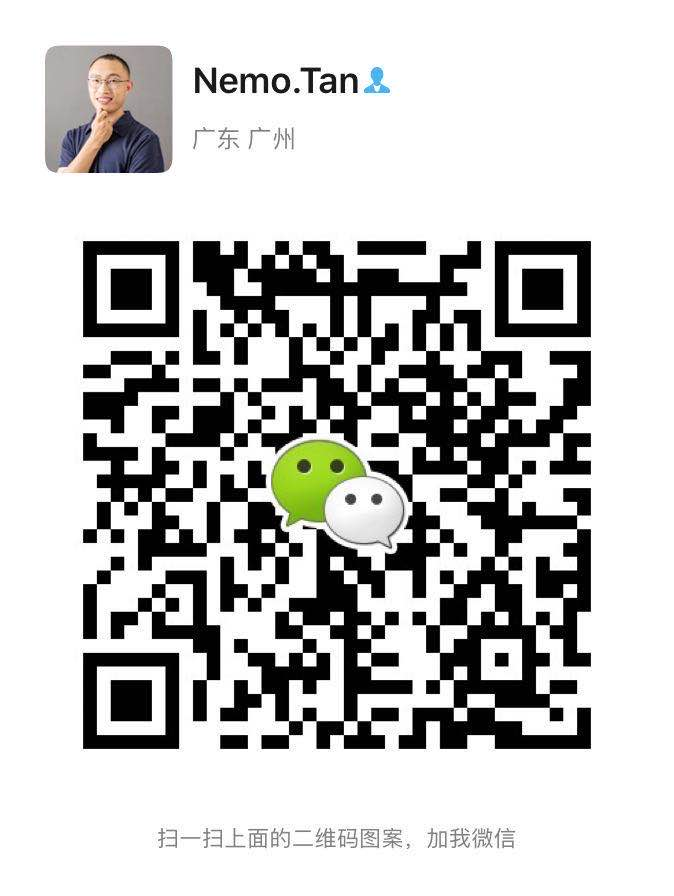
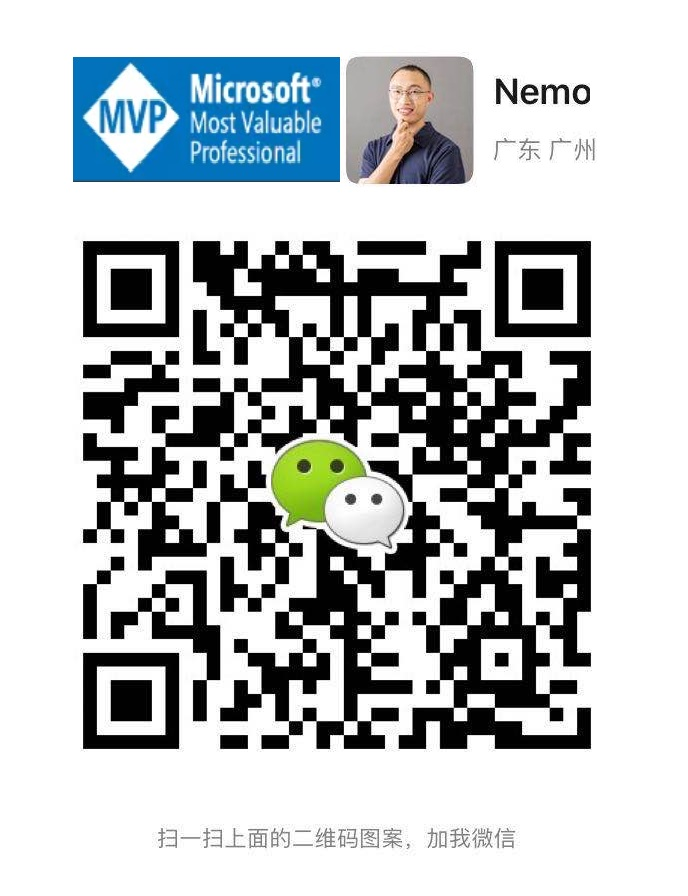
rxv80

diff --git a/_posts/2021-7-29-Teams-CollaBar-rxv80.md b/_posts/2021-7-29-Teams-CollaBar-rxv80.md
@@ -12,36 +12,93 @@ tags:
 - AudioCodes
 ---
 
->  ]()
+本文将再介绍一下Microsoft Teams硬件生态圈里面的一个会议室场景：小型会议室 或 电话间 ，当大家在使用微软Teams作为公司的办公协作平台的时候，就会遇到这样一个情况：“*公司有足够的预算来为大型会议室与培训室配备昂贵的会议设备*” ，但是对于小会议室/电话间 来说却没有必要投入这么高的成本来装备这些会议室，但同时小会议室又是企业里面使用频率最高，协作效率最高的办公场所之一。
 
-> 的我的mvp介绍
+如何为这些类型的会议室也能应用上Teams Meeting的能力？就是说用户无论在大中型会议室中可以使用Teams MTR会议终端开启Teams会议，同时在小型会议室中也能方便地开启Teams Meeting呢？微软的Teams硬件生态里面有一种会议设备叫做Collaboration bar（协作栏：一种集扬声器，麦克风，摄像头于一体的Teams会议终端）正可以以较低成本的方式，简单快捷地部署在这些小地方上面。
 
-本文将再介绍一下Microsoft Teams硬件生态圈里面的一个会议室场景：小型会议室 或 电话间 ，当大家在使用微软Teams作为公司的办公协作平台的时候，就会遇到这样一个情况：“*公司有足够的预算来为大型会议室与培训室配备昂贵的会议设备*” ，但是对于小会议室/电话间 来说却没有必要投入这么高的成本来装备这些会议室，同时小会议室又是企业里面使用频率最高，协作效率最高的办公场所之一。
+# 一致的Teams会议体验 
 
-如何为这些
+之前一篇文章介绍过Poly x50的Collaboration bar，本文测试的是奥科公司的一款Collaboration bar，型号为RXV80；相对于Poly x50来说RXV80只集成是麦克风与摄像头，扬声器的能力是沿用显示器的喇叭。
 
-# 一致的Teams会议体验 | Intuitive meeting experiences
+它与其它Teams MTR会议终端一样，因为操作界面完全一样可以减少用户的学习成本，这一点非常重要，微软对于所有的认证会议设备来说，一致的会议体验非常重要。
 
-在很久很久之前有介绍
+以下就是RXV80，一个小小的会议终端，它配置的遥控器完成满足了所有的操作需求。当然可以外接一个无线键鼠来提高操作度。
 
-# 连接触控大屏来提高Teams会议的交互体验 | Optimized for touch
+![image-20210729132654144](https://cdn.jsdelivr.net/gh/kristofftan/kristofftan.github.io/img/image-20210729132654144.png)
+
+我拿了微软关于协作栏的一个GIF作演示，其实所有的协作栏界面都是一样，通过在Teams或Outlook里面预约好Teams会议室后，日程会推送到设备上面，快到会议开始时就可以点击遥控上面的Teams button一键入会，使用体验跟所有的MTR完全是一致的。
+
+![thumbnail image 1 of blog post titled  	 	 	  	 	 	 				 		 			 				 						 							The first collaboration bar for Microsoft Teams is now available! 							 						 					 			 		 	 			 	 	 	 	 	 ](https://techcommunity.microsoft.com/t5/image/serverpage/image-id/178016i7C25DF13FC72BD3C/image-size/large?v=v2&px=999)
+
+如果你的企业已经配置了Teams Phone System的话，还可以直接把外部的PSTN用户邀请到会议室里面来，如下图：
+
+![image-20210823111548201](https://cdn.jsdelivr.net/gh/kristofftan/kristofftan.github.io/img/image-20210823111548201.png)
+
+# 连接触控大屏来提高Teams会议的交互体验
+
+一般的小会议室，只需要把Teams协作栏RXV80的网络，HDMI高清显示，电源连接上后即使用Teams Meeting Room，但显然它还可以匹配更多的会议场景，如下图：
+
+- （标记1）可以配置一个扩展麦克风，从而提高会议室的收音能力。
+- （标记4）用户的笔记本电脑可以通过连接设备后面的HDMI IN接口，直接把电脑桌面共享到Teams Meeting当中。熟悉Teams MTR的朋友一定会知道这个非常好用的功能。
+- （标记5）现在的会议室里面，如果没有一块可以触控的大屏的话，应该是非常不方便的，那么RXV80的后置USB接口连接到触控大屏的触控USB之后，我们就可以启用Teams的白板功能与远端用户互动了。
+
+> PS. 吐槽点之一是Teams Meeting是沿用Microsoft Whiteboard作为它的白板共享，相对于国内用户来说连接速度非常的慢，相对于其它大厂的白板共享来说，功能迭代又是相对地慢。
+
+![image-20210729135020728](https://cdn.jsdelivr.net/gh/kristofftan/kristofftan.github.io/img/image-20210729135020728.png)
+
+但无论如何集音视频于一体的会议终端（bar形态）一定是未来会议室场景的重要形态之一。
+
+购买回来后，接电源，接网络，接显示，即可立即使用，并立即通过Teams admin portal进行设备管理。
+
+重点是无任何许可费用产生哦。
+
+![image-20210729135144226](https://cdn.jsdelivr.net/gh/kristofftan/kristofftan.github.io/img/image-20210729135144226.png)
+
+![image-20210822191336646](https://cdn.jsdelivr.net/gh/kristofftan/kristofftan.github.io/img/image-20210822191336646.png)
 
 # 轻量的部署与管理 | Simple to deploy and manage
 
+接着，我们来详细看看Teams admin portal对于会议终端能管理到一个什么程度？
 
+如下图，进入Teams admin portal > 设备 > 协作栏，一旦设备登陆上Teams就可以直接在后台显示出来，并接受Teams admin的管理
 
-![image-20210729132654144](C:\Users\Nemo\Documents\GitHub\tangx007\img\image-20210729132654144.png)
+![image-20210822192704752](https://cdn.jsdelivr.net/gh/kristofftan/kristofftan.github.io/img/image-20210822192704752.png)
 
-![image-20210729135144226](C:\Users\Nemo\Documents\GitHub\tangx007\img\image-20210729135144226.png)
+可以对设备进行基本的固件更新与重启
 
-![image-20210729135020728](C:\Users\Nemo\Documents\GitHub\tangx007\img\image-20210729135020728.png)
+![image-20210822192800208](https://cdn.jsdelivr.net/gh/kristofftan/kristofftan.github.io/img/image-20210822192800208.png)
+
+在Teams后台中，通过创建一个配置文件可以实现批量地对一批Teams协作栏进行配置管理，对于IT Pro这是一个非常重要的功能。
+
+如下，可以设置设备的设备锁，语言，时区，日期格式，时间格式，等。
+
+![image-20210822192905770](https://cdn.jsdelivr.net/gh/kristofftan/kristofftan.github.io/img/image-20210822192905770.png)
+
+![image-20210822192916384](https://cdn.jsdelivr.net/gh/kristofftan/kristofftan.github.io/img/image-20210822192916384.png)
+
+![image-20210822192932753](https://cdn.jsdelivr.net/gh/kristofftan/kristofftan.github.io/img/image-20210822192932753.png)
+
+最后总结一下，在小型会议室里面，使用微软的Teams协作栏方案（如文中介绍的奥科RXV80）可以快速地，低成本地，轻量化地部署到这种会议室里，同时无论你使用哪个认证的硬件厂家的会议设备，都可以直接注册到Teams admin portal上面进行统一管理。无须复杂的接线，无须重新学习的成本，统一使用界面，统一管理后台，就可以很简单到部署到一间Teams会议室。
 
 # 参考
 
 #### AudioCodes RXV80 https://www.microsoft.com/zh-cn/microsoft-teams/across-devices/devices/category/teams-rooms/20?filterIds=24&page=1
 
+[RXV80 Standalone Video Collaboration Bar User's and Administrator's Manual (audiocodes.com)](https://www.audiocodes.com/media/15892/rxv80-standalone-video-collaboration-bar-users-and-administrators-manual.pdf)
+
+
+
 ------
 
 欢迎添加我的微信，分享您的见解与我的解决方案哦，让我们共同探索。
 
-<img src="https://cdn.jsdelivr.net/gh/tangx007/tangx007.github.io/img/nemo-qrcode.jpg" style="zoom:50%;" />
+<img src="https://cdn.jsdelivr.net/gh/tangx007/tangx007.github.io/img/nemo-qrcode.jpg" style="zoom:30%;" />
+
+------
+
+微软最有价值专家是微软公司授予第三方技术专业人士的一个全球奖项。27年来，世界各地的技术社区领导者，因其在线上和线下的技术社区中分享专业知识和经验而获得此奖项。
+
+MVP是经过严格挑选的专家团队，他们代表着技术最精湛且最具智慧的人，是对社区投入极大的热情并乐于助人的专家。MVP致力于通过演讲、论坛问答、创建网站、撰写博客、分享视频、开源项目、组织会议等方式来帮助他人，并最大程度地帮助微软技术社区用户使用Microsoft技术。
+更多详情请登录官方网站：https://mvp.microsoft.com/zh-cn
+
+![图片](https://mmbiz.qpic.cn/mmbiz_png/2iaocPicCyec6oZGjbx1fexnFJO41rjD9Hh1aibCcq4JBuz9uFny7VYJ9am8g6yxyFYiaY5YouSDOBvm68ianrEibu7g/640?wx_fmt=png&tp=webp&wxfrom=5&wx_lazy=1&wx_co=1)

diff --git a/_posts/0TeamsUserVoice0000000000000000000000000000000000000000 (copy) (copy) (copy) (copy) (copy) (copy) (copy) (copy).md b/_posts/0TeamsUserVoice0000000000000000000000000000000000000000 (copy) (copy) (copy) (copy) (copy) (copy) (copy) (copy).md
@@ -1,0 +1,50 @@
+---
+layout:     post
+title:      xxx
+subtitle:  xxx
+date:       2020-5-20
+author:  Nemo
+header-img: img/post-bg-universe.jpg
+catalog: true
+tags:
+
+- Teams-Meeting
+-  
+---
+
+
+
+在临时会议中，无法显示会议连接，从而无法分发会议信息给其它人
+
+会议链接太长，导致使用社交媒体分发会议信息不方便，建议可以设计有会议接入号
+
+![image-20210811153547121](C:\Users\Nemo\Documents\GitHub\tangx007\img\image-20210811153547121.png)
+
+没有白板功能
+
+
+
+Call health功能建议可以单独一个窗口出来，用于会议保障人员在另一个显示器实时查看情况
+
+![image-20210811214539557](C:\Users\Nemo\Documents\GitHub\tangx007\img\image-20210811214539557.png)
+
+
+
+为什么锁定会议的功能会出现在参与者列表里面呢，我建议是放在与结束会议的Leave button里面，或者其它更好的位置
+
+![image-20210811220310995](C:\Users\Nemo\Documents\GitHub\tangx007\img\image-20210811220310995.png)
+
+
+
+策略包里面没有拨号计划，实际应用中语音路由策略与拨号计划是同时使用的
+
+![image-20210813104253731](C:\Users\Nemo\Documents\GitHub\tangx007\img\image-20210813104253731.png)
+
+Teams Meeting是沿用Microsoft Whiteboard作为它的白板共享的，相对于国内用户来说速度非常的慢，相对于其它大厂的白板共享来说，功能迭代又是相对地慢。
+
+
+
+
+
+
+

diff --git a/_posts/0会议屏与距离的关系BDMandADM0000000000000000000000000000000000000000 (copy) (copy) (copy) (copy) (copy) (copy) (copy) (copy).md b/_posts/0会议屏与距离的关系BDMandADM0000000000000000000000000000000000000000 (copy) (copy) (copy) (copy) (copy) (copy) (copy) (copy).md
@@ -1,0 +1,20 @@
+---
+layout:     post
+title:      我们这些靠大屏来建设会议室的人必须知道的一种技术
+subtitle:  BDM and ADM
+date:       2020-5-20
+author:  Nemo
+header-img: img/post-bg-universe.jpg
+catalog: true
+tags:
+
+- Teams-Meeting
+- 
+---
+
+
+
+![image-20210817163603501](C:\Users\Nemo\Documents\GitHub\tangx007\img\image-20210817163603501.png)
+
+
+

diff --git a/_posts/0Sysinternals tools来分析Teams0000000000000000000000000000000000000000 (copy) (copy) (copy) (copy) (copy) (copy) (copy) (copy).md b/_posts/0Sysinternals tools来分析Teams0000000000000000000000000000000000000000 (copy) (copy) (copy) (copy) (copy) (copy) (copy) (copy).md
@@ -1,0 +1,20 @@
+---
+layout:     post
+title:      xxx
+subtitle:  xxx
+date:       2020-5-20
+author:  Nemo
+header-img: img/post-bg-universe.jpg
+catalog: true
+tags:
+
+- Teams-Meeting
+- 
+---
+
+
+
+![image-20210622170907755](C:\Users\Nemo\Documents\GitHub\tangx007\img\image-20210622170907755.png)
+
+
+

diff --git a/_posts/0TeamsClient作为会议终端使用0000000000000000000000000000000000000000 (copy) (copy) (copy) (copy) (copy) (copy) (copy) (copy).md b/_posts/0TeamsClient作为会议终端使用0000000000000000000000000000000000000000 (copy) (copy) (copy) (copy) (copy) (copy) (copy) (copy).md
@@ -1,0 +1,20 @@
+---
+layout:     post
+title:      xxx
+subtitle:  xxx
+date:       2020-5-20
+author:  Nemo
+header-img: img/post-bg-universe.jpg
+catalog: true
+tags:
+
+- Teams-Meeting
+- 
+---
+
+
+
+![image-20210813131409601](C:\Users\Nemo\Documents\GitHub\tangx007\img\image-20210813131409601.png)
+
+
+

diff --git a/_posts/2021-6-23-exchangeonline-powershell.md b/_posts/2021-6-23-exchangeonline-powershell.md
@@ -16,6 +16,8 @@ tags:
 
 在2021年2月之前，以下基于Basic Authentication的身份验证方法来访问Exchange online的方式还能用，也就是所谓的EXO V1 module
 
+> 注意：以下命令已不适用。
+
 ```
 Set-ExecutionPolicy Unrestricted
 $exadmin='tangx@contoso.com'
